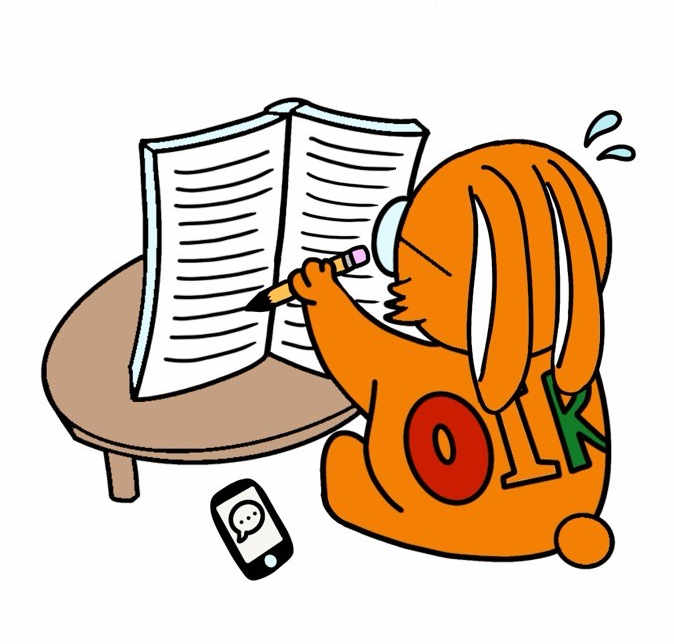
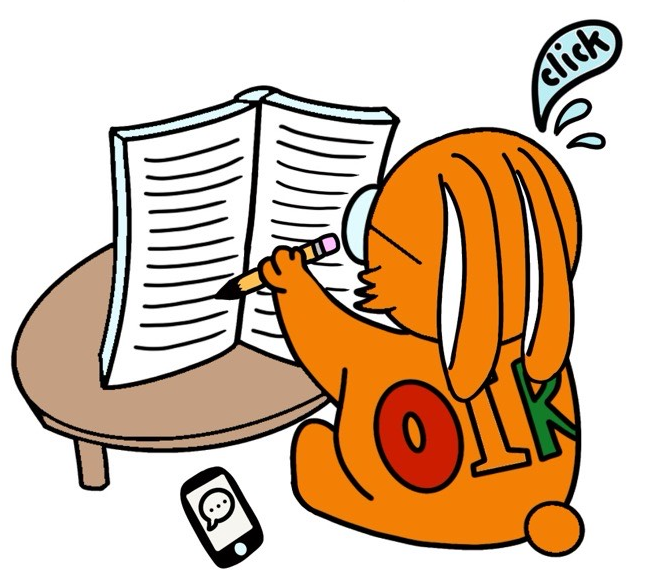
Design: 사진 update

diff --git a/fe/components/inbox/InboxList.tsx b/fe/components/inbox/InboxList.tsx
@@ -5,6 +5,7 @@ import formatDate from "@/lib/utils/formatDate";
 import { useIsOwner } from "@/lib/hooks/useIsOwner";
 import ReplyBox from "./ReplyBox";
 import { useState } from "react";
+import Image from "next/image";
 
 interface Reply {
   senderId: string;
@@ -74,56 +75,74 @@ export default function InboxList() {
       </div>
 
       <div className="space-y-3">
-        {messages.map((el) => (
-          <div
-            key={el._id}
-            className="bg-white p-4 rounded-lg shadow-sm border space-y-2"
-          >
-            <div className="text-sm whitespace-pre-wrap break-words">
-              {el.content}
+        {messages.length === 0 ? (
+          <div className="flex flex-col items-center justify-center min-h-[300px]">
+            <div className="text-center text-gray-500 text-sm  ">
+              아직 받은 쪽지가 없어요, <br />
+              주소를 복사해서 친구에게 공유해보세요!
             </div>
-            <div className="text-xs text-gray-500 text-right">
-              {formatDate(el.sentAt)}
-            </div>
-
-            {/* 답변 목록 */}
-            {Array.isArray(el.replies) && el.replies.length > 0 && (
-              <div className="mt-2 border-t pt-2 space-y-1">
-                <div className="text-xs font-medium text-gray-600">💬 답변</div>
-                {el.replies?.map((reply, index) => (
-                  <div
-                    key={index}
-                    className="pl-3 border-l border-gray-300 ml-1 text-sm text-gray-800"
-                  >
-                    <p className="whitespace-pre-wrap break-words">
-                      {reply.content}
-                    </p>
-                    <p className="text-[11px] text-right text-gray-500 mt-1">
-                      {formatDate(reply.sentAt)}
-                    </p>
-                  </div>
-                ))}
-              </div>
-            )}
-
-            {isOwner && (
-              <div className="mt-2">
-                <button
-                  onClick={() => toggleReplyBox(el._id)}
-                  className="text-xs text-blue-600 underline"
-                >
-                  {replyBoxOpen[el._id] ? "답장 닫기" : "답장하기"}
-                </button>
-                {replyBoxOpen[el._id] && (
-                  <ReplyBox
-                    parentMessageId={el._id}
-                    onClose={() => toggleReplyBox(el._id)}
-                  />
-                )}
-              </div>
-            )}
+            <Image
+              src={`/images/post.png`}
+              alt="post"
+              height={80}
+              width={80}
+              className="py-6"
+            />
           </div>
-        ))}
+        ) : (
+          messages.map((el) => (
+            <div
+              key={el._id}
+              className="bg-white p-4 rounded-lg shadow-sm border space-y-2"
+            >
+              <div className="text-sm whitespace-pre-wrap break-words">
+                {el.content}
+              </div>
+              <div className="text-xs text-gray-500 text-right">
+                {formatDate(el.sentAt)}
+              </div>
+
+              {/* 답변 목록 */}
+              {Array.isArray(el.replies) && el.replies.length > 0 && (
+                <div className="mt-2 border-t pt-2 space-y-1">
+                  <div className="text-xs font-medium text-gray-600">
+                    💬 답변
+                  </div>
+                  {el.replies?.map((reply, index) => (
+                    <div
+                      key={index}
+                      className="pl-3 border-l border-gray-300 ml-1 text-sm text-gray-800"
+                    >
+                      <p className="whitespace-pre-wrap break-words">
+                        {reply.content}
+                      </p>
+                      <p className="text-[11px] text-right text-gray-500 mt-1">
+                        {formatDate(reply.sentAt)}
+                      </p>
+                    </div>
+                  ))}
+                </div>
+              )}
+
+              {isOwner && (
+                <div className="mt-2">
+                  <button
+                    onClick={() => toggleReplyBox(el._id)}
+                    className="text-xs text-blue-600 underline"
+                  >
+                    {replyBoxOpen[el._id] ? "답장 닫기" : "답장하기"}
+                  </button>
+                  {replyBoxOpen[el._id] && (
+                    <ReplyBox
+                      parentMessageId={el._id}
+                      onClose={() => toggleReplyBox(el._id)}
+                    />
+                  )}
+                </div>
+              )}
+            </div>
+          ))
+        )}
       </div>
     </div>
   );

diff --git a/fe/components/points/PointClicker.tsx b/fe/components/points/PointClicker.tsx
@@ -56,14 +56,7 @@ export default function PointClicker() {
             />
           )}
         </div>
-        <div className="relative">
-          <div
-            className={`absolute right-0 font-bold text-main-red ${
-              state ? "block" : "hidden"
-            }`}
-          >
-            click
-          </div>
+        <div>
           {state ? (
             <Image
               src={`/images/click1.png`}
